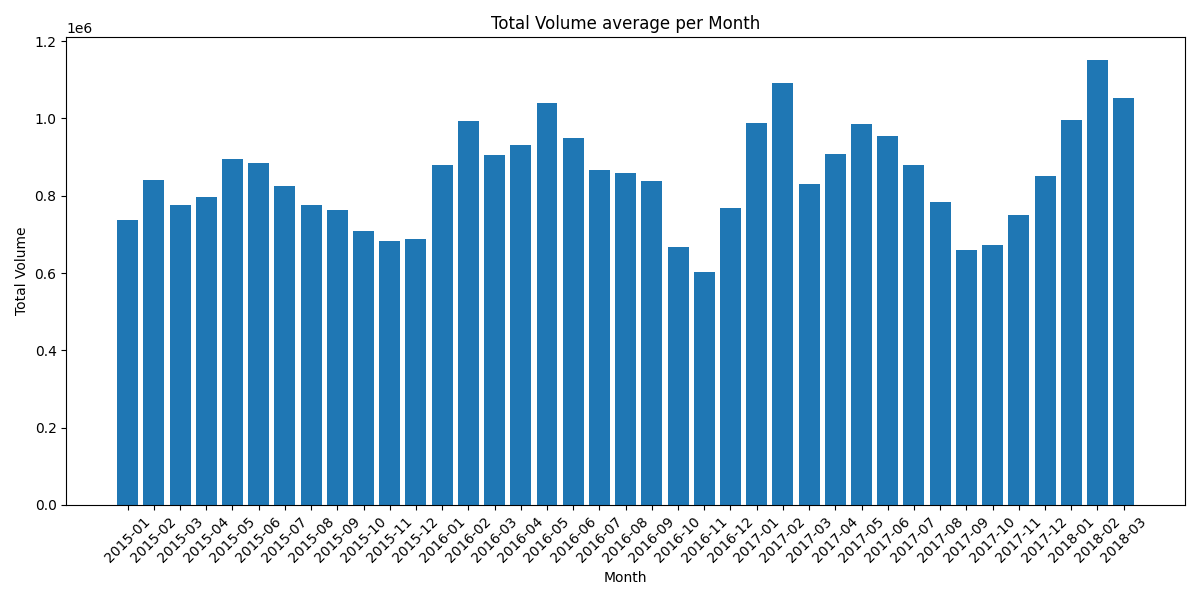
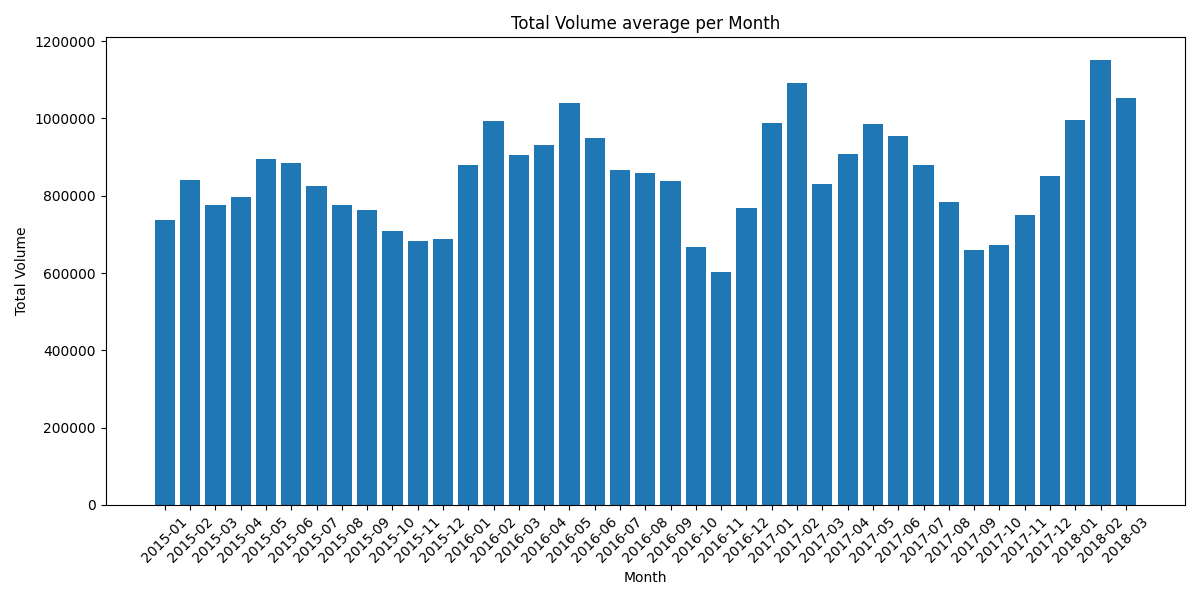
fix(visualization.py) visual graphics all perfects

diff --git a/src/visualization.py b/src/visualization.py
@@ -28,7 +28,7 @@ def plot_missing_values_heatmap(df, output_path):
 def plot_categorical_counts(df, col, output_path, top_n=None):
     """
     Plot bar charts of categorical variables.
-    Replaces numeric PLUs with descriptive PLU names.
+    Replaces PLU values with descriptive names.
     """
     if col not in df.columns:
         print(f"Column '{col}' not found. Skipping.")
@@ -99,6 +99,10 @@ def plot_time_series(df, date_col, value_col, freq='M', output_path="outputs/01_
     plt.title(f"{title_value} average per {freq_title}")
     plt.xlabel(freq_title)
     plt.ylabel(value_col)
+
+    # 🔥 Disable scientific notation (removes the "1e6" label)
+    plt.ticklabel_format(style='plain', axis='y')
+
     plt.tight_layout()
 
     filename = os.path.join(output_path, f"{value_col}_{date_col}_{freq}.png")
